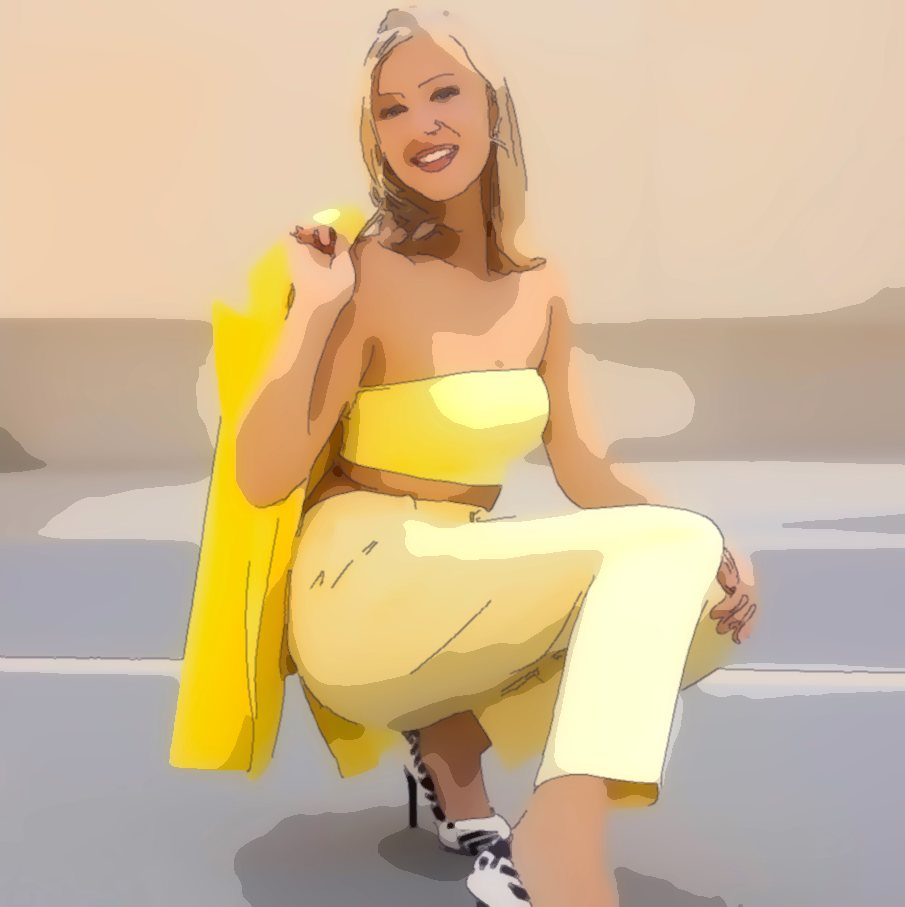
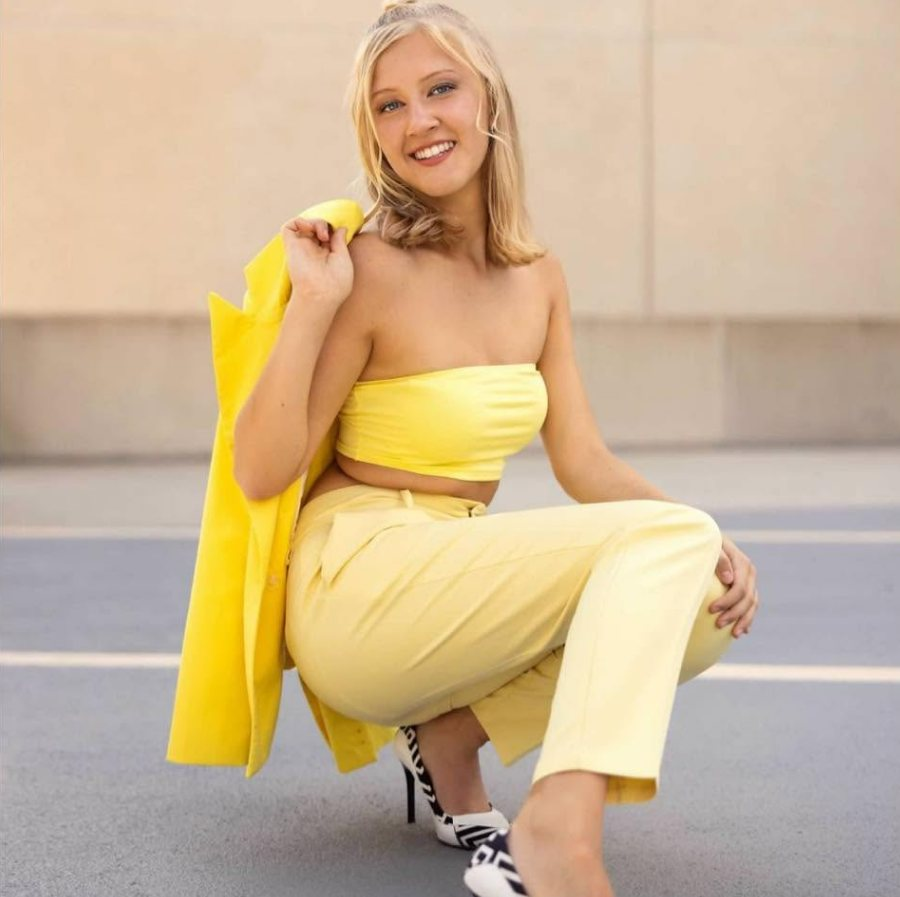
Replace hero portrait with photo

diff --git a/src/pages/Home.tsx b/src/pages/Home.tsx
@@ -33,7 +33,7 @@ export default function Home() {
           </div>
           <figure className="portrait">
             <div className="portrait-frame">
-              <img src={portrait} alt={`Portrait of ${profile.name}`} width={905} height={907} />
+              <img src={portrait} alt={`Portrait of ${profile.name}`} width={900} height={897} />
             </div>
             <figcaption className="portrait-badge">
               <span className="portrait-badge-dot" aria-hidden="true" />
